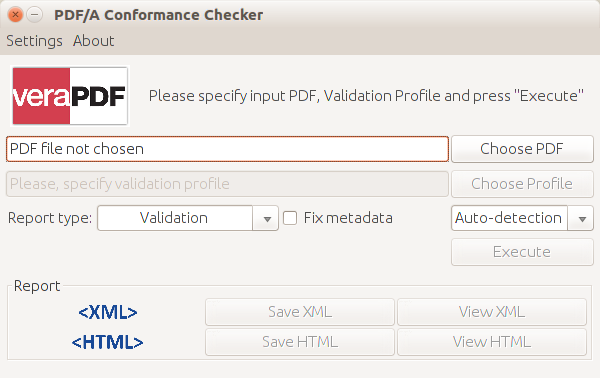
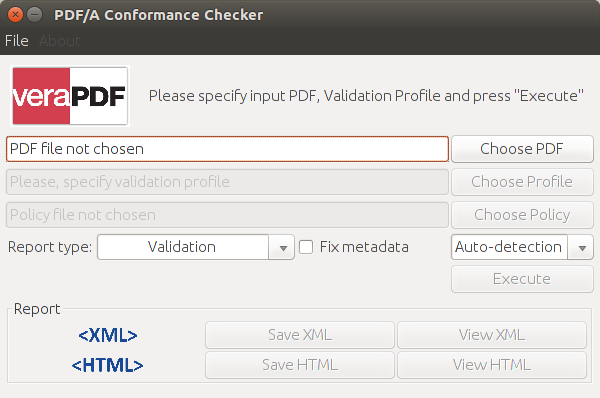
FEAT - Updated GUI documentation - updated screenshots for GUI; and - added Policy button and policy reference link.

diff --git a/gui/index.md b/gui/index.md
@@ -41,7 +41,11 @@ The interface is fairly simple, we describe the controls int he following sectio
 This opens the file dialog, allowing the user to select a PDF file for validation or feature reporting. The "Execute" button will not be enabled until a file is selected.
 
 #### Choose Profile button and Profile dropdown
-The Choose Profile button and the dropdown immediately below it determine the validation processing. The Choose Profile button allows a user to load a custom Validation Profile from the file system. For most users the built in profiles packaged with the software will be sufficient. The dropdown below the button is used to control profile selection, the options are as follows:
+The Choose Profile button and the dropdown immediately below it determine the validation processing. The Choose Profile button allows a user to load a custom Validation Profile from the file system. For most users the built in profiles packaged with the software will be sufficient. The dropdown below the button is used to control profile selection:
+
+![veraPDF GUI profile dropdown](/images/gui/profile-list.png "veraPDF GUI profile dropdown")
+
+The options are as follows:
 
 | Option         | Description                                                                                               |
 |----------------|-----------------------------------------------------------------------------------------------------------|
@@ -57,15 +61,22 @@ The Choose Profile button and the dropdown immediately below it determine the va
 | Custom Profile | Enables the Choose Profile button allowing the user to load an external validation profile.               |
 {:.table .table-striped}
 
-#### Report Type dropdown and Fix Metadata checkbox
-These controls allow the user to select the processing functionality and the information included in the generated report. The available options are:
+#### Report Type dropdown, Policy button, and Fix Metadata checkbox
+These controls allow the user to select the processing functionality and the information included in the generated report:
+
+![veraPDF GUI report dropdown](/images/gui/report-list.png "veraPDF GUI report dropdown")
+
+The available options are:
 
 | Option                | Description                                                                            |
 |-----------------------|----------------------------------------------------------------------------------------|
 | Validation [default]  | Only perform PDF/A Validation and report the results, feature reporting is disabled.   |
 | Features              | Only carry out feature reporting, don't try to validate the PDF file.                  |
 | Validation & Features | Both PDF/A Validation and features reporting are carried out and the results reported. |
+| Policy                | Perform a Policy check alongside validation and feature extraction.                    |
 {:.table .table-striped}
+
+If Policy is chosed the "Choose Policy" is activated, the user can then press this and load a [policy schematron file](cli/policy).
 
 The Fix Metadata checkbox determines whether the software will attempt to ammend the PDF document metadata to ensure it is compliant whith the PDF/A specification.
 
@@ -85,7 +96,7 @@ Once processing is complete the reporting buttons will be enabled:
 
 The XML report will contain PDF/A Validation Report and PDF Features Report, depending on the chosen processing options. Currently the HTML report only includes the results PDF/A Validation information.
 
-![veraPDF GUI main screen](/images/gui/populated.png "veraPDF GUI main screen")
+![veraPDF GUI populated screen](/images/gui/populated.png "veraPDF GUI main screen")
 
 Once a PDF File is selected, and possibly a custom profile depending upon the dropdown, the ‘Validate’ button becomes enabled.
 
